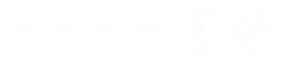
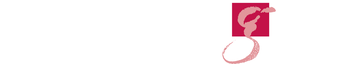
Support strip: the AEI and Max Planck marks keep their own colours
Both were being drained to white. The AEI mark is a claret square holding a
script G, and the all-white lockup paints it out; it now comes from the colour
lockup through the same negative treatment the past-* marks use, so the
wordmark and the Minerva line art go white and the claret stays at its own
(195, 18, 72). The Max Planck Minerva was whitened although its source is
already transparent and already the society's green, so it is now passed
through untouched at (0, 125, 122).

Two consequences. The green is thin line art and the row's 0.85 opacity takes
it below where it reads, so that one mark carries logo-colour and is not
dimmed. The colour lockup crops 40px wider than the white one, which pushed
the row past what an 840px column can hold, so the threshold for justifying
the row moves to 880px.

Changed region(s): [[0.6154, 0.0312, 0.7832, 1.0], [0.6434, 0.6562, 0.6713, 0.6875]]

diff --git a/assets/css/main.css b/assets/css/main.css
@@ -1194,6 +1194,12 @@ h2 + .stage-heading { margin-top: 1.2rem; }
 .logo-row-support a:hover img,
 .logo-row-support a:focus-visible img { opacity: 1; }
 
+/* Undimmed, for a mark whose own colour is already dark against this page.
+   The Max Planck Minerva is thin line art in the society's green, and the
+   0.85 the row applies to hold the white marks back takes it below where it
+   reads. */
+.logo-row-support img.logo-colour { opacity: 1; }
+
 /* The trajectory row below it: the marks keep their colour, so they are held
    back by size and a little transparency rather than by being drained. It is
    allowed to run to two lines. */
@@ -1218,9 +1224,11 @@ h2 + .stage-heading { margin-top: 1.2rem; }
    what is left.
 
    Only once each row fits on one line: on a wrapped row space-between would
-   strand the last mark against the left edge. Each row measures about 770px
-   unstretched, so 840px is where the column stops being able to hold it. */
-@media (min-width: 840px) {
+   strand the last mark against the left edge. The supporters row measures
+   about 810px unstretched, so 880px is where the column stops being able to
+   hold it. The number is tied to the marks: the AEI lockup gained 40px when it
+   changed to the colour version, and the threshold moved with it. */
+@media (min-width: 880px) {
 	.logo-row-support { justify-content: space-between; }
 }
 

diff --git a/index.html b/index.html
@@ -210,7 +210,7 @@ description: >-
       <a href="{{ site.affiliation.aei_url }}" rel="noopener">
         <img src="{{ '/imgs/support/aei.png' | relative_url }}"
              alt="Max Planck Institute for Gravitational Physics (Albert Einstein Institute)"
-             loading="lazy" width="286" height="64"></a>
+             loading="lazy" width="356" height="64"></a>
       <a href="https://erc.europa.eu/" rel="noopener">
         <img class="logo-tall" src="{{ '/imgs/support/erc-eu.png' | relative_url }}"
              alt="Funded by the European Union, European Research Council" loading="lazy"
@@ -224,7 +224,7 @@ description: >-
              alt="Consejo Superior de Investigaciones Cient&iacute;ficas" loading="lazy"
              width="261" height="64"></a>
       <a href="https://www.mpg.de/en" rel="noopener">
-        <img class="logo-tall" src="{{ '/imgs/support/mpg.png' | relative_url }}"
+        <img class="logo-tall logo-colour" src="{{ '/imgs/support/mpg.png' | relative_url }}"
              alt="Max-Planck-Gesellschaft" loading="lazy"
              width="108" height="88"></a>
     </div>

diff --git a/tools/make_support_logos.py b/tools/make_support_logos.py
@@ -42,11 +42,20 @@ MARKS = [
     # the only colour the strip has on the left, and it is what makes the
     # mark read as the IFT rather than as three white letters.
     ("ift.png",       "ift_logo.png",                           44, {"negative": True}),
-    ("aei.png",       "MPI-AEI_wide_E_neg_rgb_transparent.png", 32, {"renorm": True}),
+    # The colour lockup rather than the all-white one: the AEI mark is a
+    # claret square holding a script G, and the negative version paints it
+    # out. Negative keeps the claret and whitens the wordmark and the
+    # Minerva line art beside it. The claret is (195, 18, 72), above the
+    # value this treatment lifts to, so it comes through unchanged.
+    ("aei.png",       "MPI-AEI_wide_E_color_rgb.jpg",           32,
+     {"negative": True, "key_white": True, "crop": "alpha"}),
     ("erc-eu.png",    "erc_eu_funding_dark.png",                44, {}),
     ("miciu-aei.png", "logo_miciu_aei_dark.png",                32, {}),
     ("csic.png",      "logo_csic_dark.png",                     32, {}),
-    ("mpg.png",       "2560px-Max-Planck-Gesellschaft.png",     44, {"whiten": True}),
+    # Not whitened: the source is already transparent and already the
+    # institution's own green, (0, 125, 122), which reads on this
+    # background and is the colour the Max Planck Society draws Minerva in.
+    ("mpg.png",       "2560px-Max-Planck-Gesellschaft.png",     44, {}),
 ]
 
 # The trajectory strip, most recent first. These keep their brand colour: the
